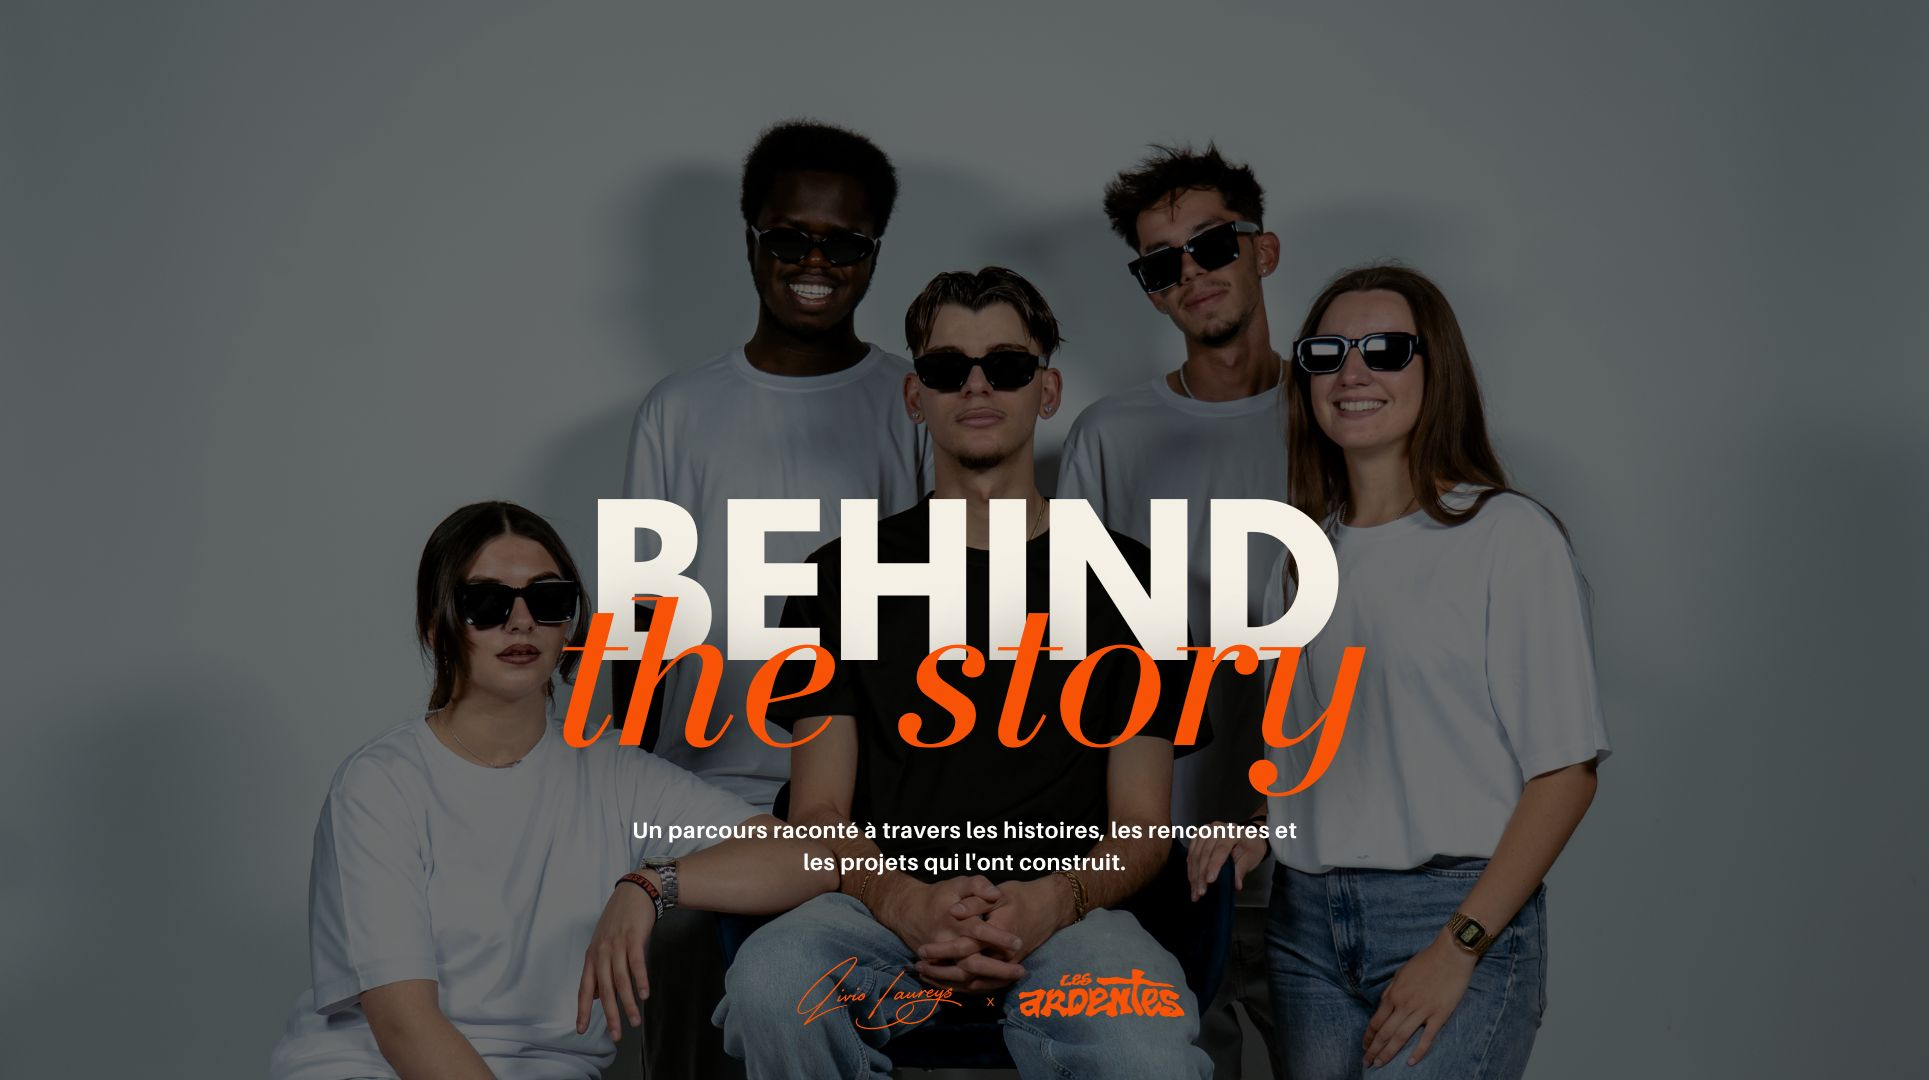
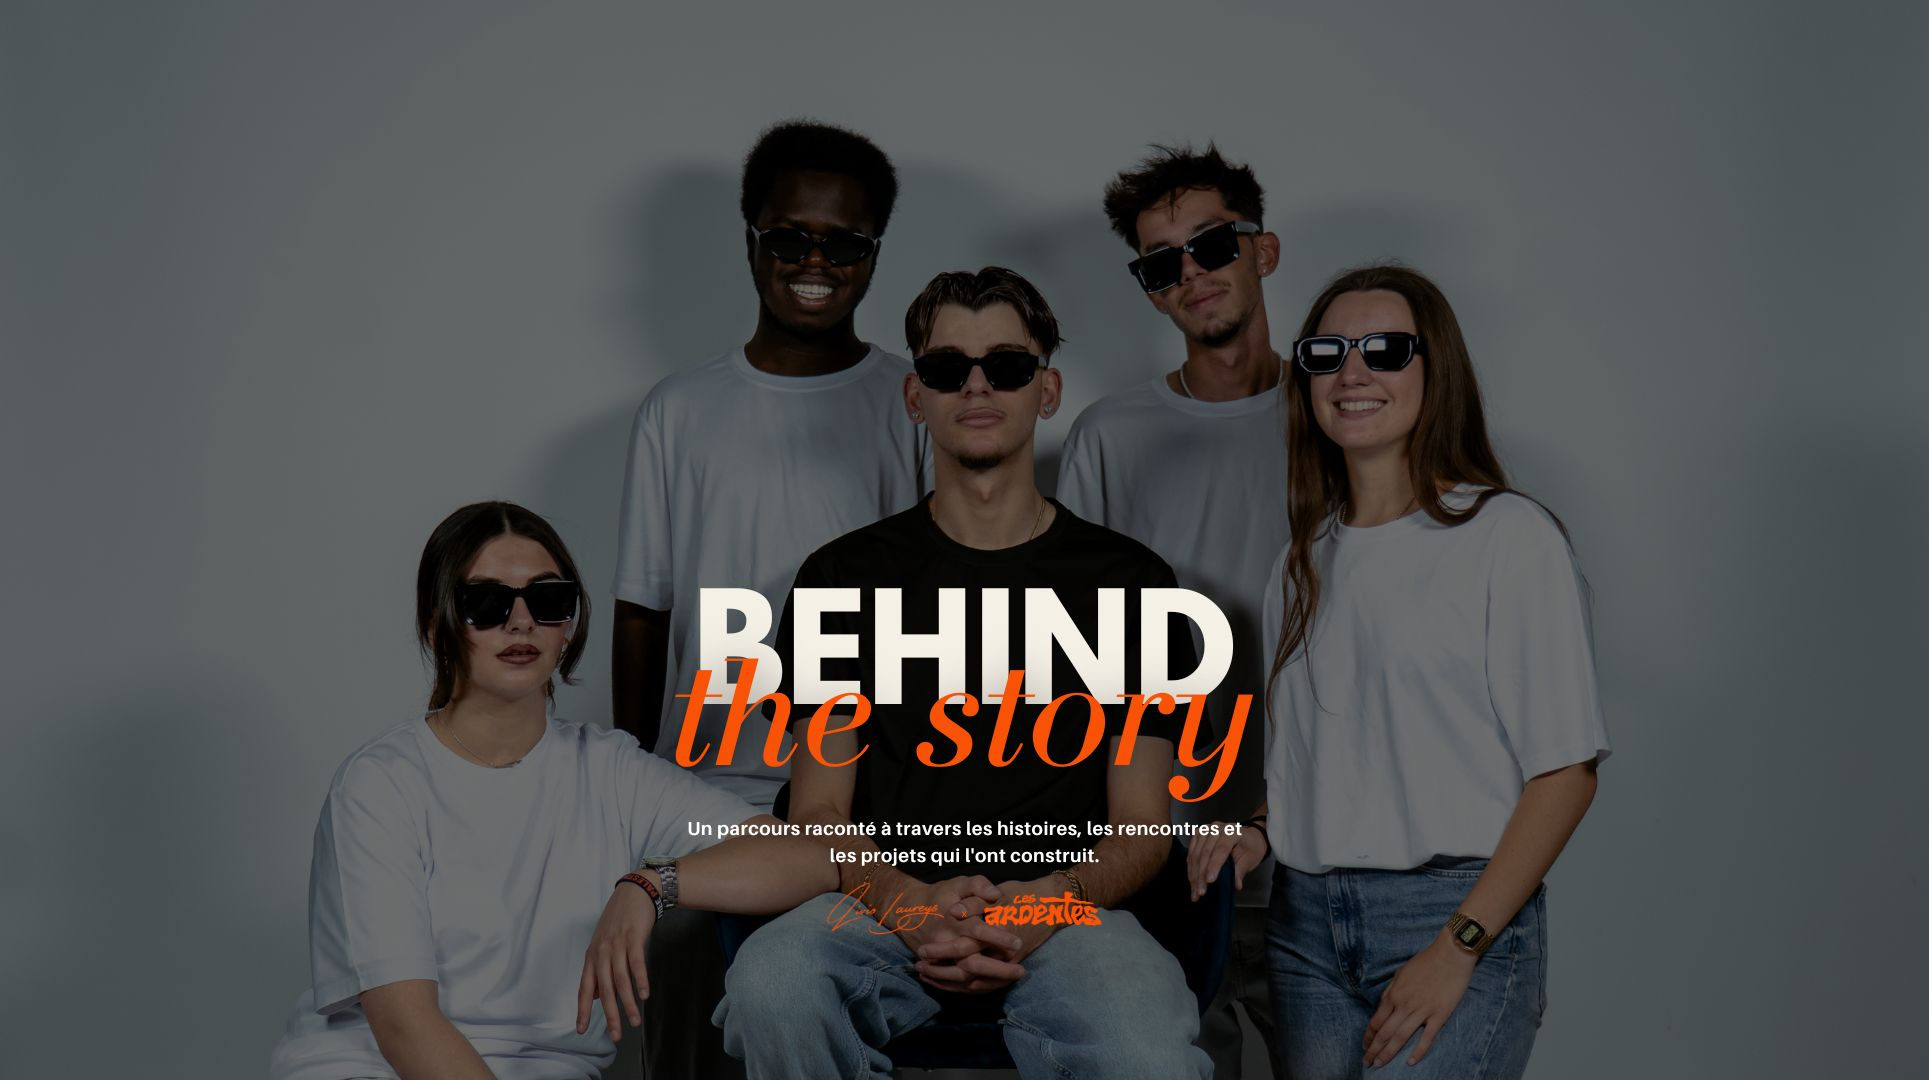
Add files via upload

Changed region(s): [[0.2799, 0.4583, 0.7154, 0.8556], [0.5288, 0.8861, 0.6221, 0.9472], [0.4044, 0.8861, 0.4977, 0.9472]]

diff --git a/nesprod.html b/nesprod.html
@@ -40,42 +40,21 @@
 
     <div class="proj-grid">
 
-      <div class="proj-card" style="background-image:url('71-RTL-CARTE.jpg');background-size:cover;background-position:center;" onclick="openModal({
-          title:'71 — RTL-TVI',
-          desc:'Assistance à la production de l\'émission, de la préparation des tournages jusqu\'au direct.',
-          category:'NES Prod',
-          link:''
-        })">
-        
-        <div class="proj-play"><svg viewBox="0 0 24 24"><path d="M8 5v14l11-7z"/></svg></div>
+      <div class="proj-card proj-card--static" style="background-image:url('71-RTL-CARTE.jpg');background-size:cover;background-position:center;">
         <div class="proj-info">
           <div class="proj-title">71 — RTL-TVI</div>
           <div class="proj-desc">Assistance à la production de l'émission, de la préparation des tournages jusqu'au direct.</div>
         </div>
       </div>
 
-      <div class="proj-card" style="background-image:url('MAINTENANT-OU--JAMAIS-CARTE.jpg');background-size:cover;background-position:center;" onclick="openModal({
-          title:'Maintenant ou Jamais — RTL-TVI',
-          desc:'Participation à l\'organisation et à la coordination d\'une émission de divertissement en plateau.',
-          category:'NES Prod',
-          link:''
-        })">
-        
-        <div class="proj-play"><svg viewBox="0 0 24 24"><path d="M8 5v14l11-7z"/></svg></div>
+      <div class="proj-card proj-card--static" style="background-image:url('MAINTENANT-OU--JAMAIS-CARTE.jpg');background-size:cover;background-position:center;">
         <div class="proj-info">
           <div class="proj-title">Maintenant ou Jamais — RTL-TVI</div>
           <div class="proj-desc">Participation à l'organisation et à la coordination d'une émission de divertissement en plateau.</div>
         </div>
       </div>
 
-      <div class="proj-card" style="background-image:url('RTL%20INFO-ÉLECTIONS-2024-CARTE.jpg');background-size:cover;background-position:center;" onclick="openModal({
-          title:'RTL Info — Élections 2024',
-          desc:'Contribution à la préparation éditoriale et logistique de la soirée spéciale des élections 2024.',
-          category:'NES Prod',
-          link:''
-        })">
-        
-        <div class="proj-play"><svg viewBox="0 0 24 24"><path d="M8 5v14l11-7z"/></svg></div>
+      <div class="proj-card proj-card--static" style="background-image:url('RTL%20INFO-ÉLECTIONS-2024-CARTE.jpg');background-size:cover;background-position:center;">
         <div class="proj-info">
           <div class="proj-title">RTL Info — Élections 2024</div>
           <div class="proj-desc">Contribution à la préparation éditoriale et logistique de la soirée spéciale des élections 2024.</div>

diff --git a/styles.css b/styles.css
@@ -441,7 +441,7 @@
     aspect-ratio:4/5;
     border-radius:2px;
     overflow:hidden;
-    border:1px solid var(--line);
+    border:1px solid rgba(248,82,6,0.28);
     background:
       repeating-linear-gradient(135deg, #17140f, #17140f 10px, #1c1812 10px, #1c1812 20px);
     cursor:pointer;
@@ -449,6 +449,16 @@
     flex-direction:column;
     justify-content:flex-end;
     text-align:left;
+    transition:border-color .3s ease;
+  }
+  .proj-card:hover{
+    border-color:rgba(248,82,6,0.55);
+  }
+  .proj-card.proj-card--static{
+    cursor:default;
+  }
+  .proj-card.proj-card--static:hover{
+    border-color:rgba(248,82,6,0.28);
   }
   .proj-card::after{
     content:'';
@@ -502,10 +512,16 @@
     line-height:1.05;
   }
   .proj-desc{
-    margin-top:6px;
+    margin-top:8px;
     font-size:11.5px;
-    color:var(--muted);
-    line-height:1.4;
+    color:var(--accent);
+    font-weight:500;
+    line-height:1.5;
+    background:rgba(255,255,255,0.10);
+    -webkit-backdrop-filter:blur(3px);
+    backdrop-filter:blur(3px);
+    padding:5px 9px;
+    border-radius:3px;
     display:-webkit-box;
     -webkit-line-clamp:2;
     -webkit-box-orient:vertical;
@@ -700,8 +716,8 @@
     margin-top:14px;
     font-size:12px;
     font-style:italic;
-    color:var(--muted);
-    opacity:0.65;
+    color:var(--accent);
+    opacity:0.85;
   }
 
   .gallery-grid{
@@ -724,14 +740,16 @@
     aspect-ratio:4/5;
     border-radius:2px;
     overflow:hidden;
-    border:1px solid var(--line);
+    border:1px solid rgba(248,82,6,0.28);
     background:repeating-linear-gradient(135deg, #17140f, #17140f 10px, #1c1812 10px, #1c1812 20px);
     display:flex;
     align-items:center;
     justify-content:center;
     text-decoration:none;
     color:var(--cream);
+    transition:border-color .3s ease;
   }
+  .gallery-item:hover{border-color:rgba(248,82,6,0.55);}
   .gallery-item .proj-play{position:static;transform:none;}
   .gallery-thumb-note{
     position:absolute;

diff --git a/otw.html b/otw.html
@@ -73,28 +73,14 @@
         </div>
       </div>
 
-      <div class="proj-card" style="background-image:url('RNBOI-CARTE.jpg');background-size:cover;background-position:center;" onclick="openModal({
-          title:'RNBoi — Parc des Princes',
-          desc:'Assistant de production lors du tournage de RNBoi au Parc des Princes.',
-          category:'OTW Production',
-          link:''
-        })">
-        
-        <div class="proj-play"><svg viewBox="0 0 24 24"><path d="M8 5v14l11-7z"/></svg></div>
+      <div class="proj-card proj-card--static" style="background-image:url('RNBOI-CARTE.jpg');background-size:cover;background-position:center;">
         <div class="proj-info">
           <div class="proj-title">RNBoi — Parc des Princes</div>
           <div class="proj-desc">Assistant de production lors du tournage de RNBoi au Parc des Princes.</div>
         </div>
       </div>
 
-      <div class="proj-card" style="background-image:url('SILENT-PARTY-CARTE.jpg');background-size:cover;background-position:center;" onclick="openModal({
-          title:'Affiche Silent Party Belgium',
-          desc:'Création des visuels promotionnels destinés aux réseaux sociaux de l\'événement.',
-          category:'OTW Production',
-          link:''
-        })">
-        
-        <div class="proj-play"><svg viewBox="0 0 24 24"><path d="M8 5v14l11-7z"/></svg></div>
+      <div class="proj-card proj-card--static" style="background-image:url('SILENT-PARTY-CARTE.jpg');background-size:cover;background-position:center;">
         <div class="proj-info">
           <div class="proj-title">Affiche Silent Party Belgium</div>
           <div class="proj-desc">Création des visuels promotionnels destinés aux réseaux sociaux de l'événement.</div>
